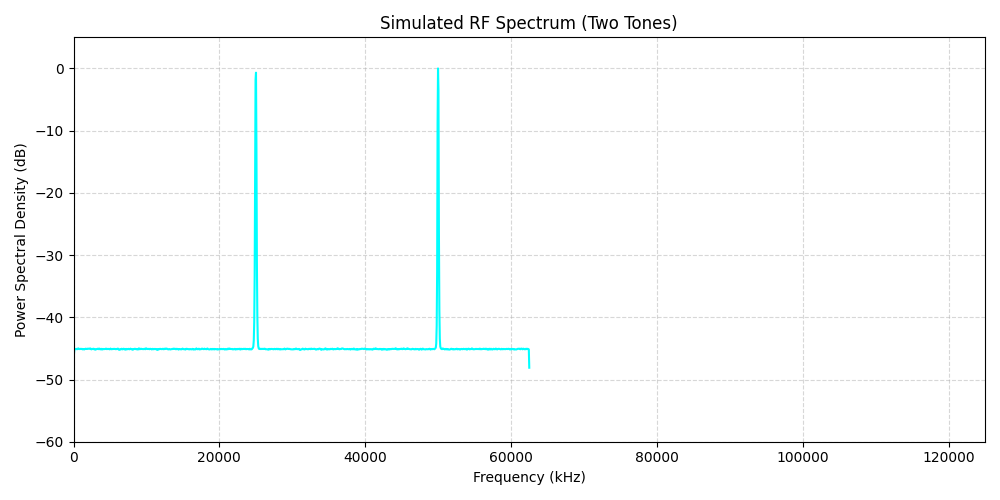
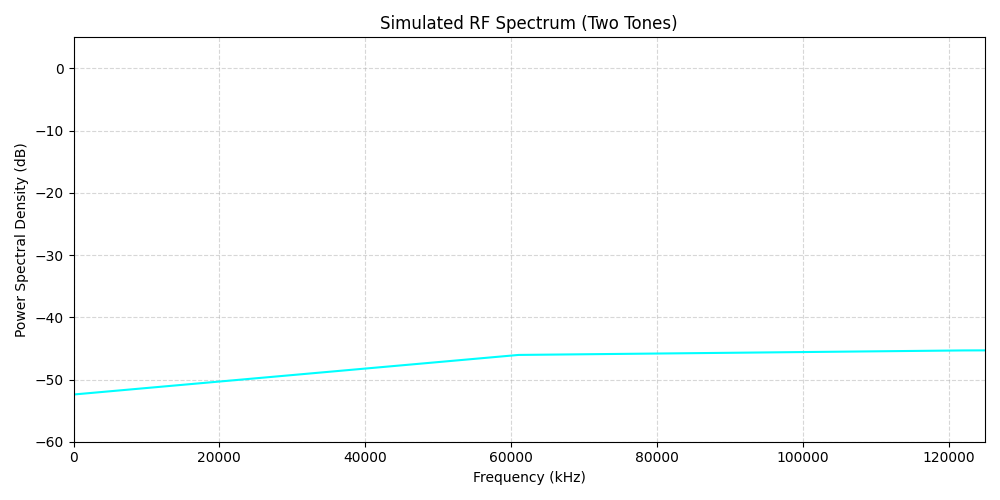
this is a test 2

Changed region(s): [[0.062, 0.15, 0.992, 0.75], [0.124, 0.75, 0.279, 0.78], [0.062, 0.78, 0.124, 0.81]]

diff --git a/rf-spectrum-gen/two-tone.py b/rf-spectrum-gen/two-tone.py
@@ -7,12 +7,12 @@ def generate_rf_spectrum():
     fs = 125e6           # Sample Rate / Bandwidth (in Hz)
     f1 = 25e6            # Frequency of Tone 1 (in Hz)
     f2 = 50e6            # Frequency of Tone 2 (in Hz)
-    duration = 0.1      # Duration of the signal in seconds
+    duration = 0.01      # Duration of the signal in seconds
     noise_power = 0.1    # Add a baseline noise floor
     
     # --- Time Vector & Signal Generation ---
     t = np.arange(0, duration, 1 / fs)
-    
+    print(len(t))
     # Two tones + Gaussian noise
     signal = (np.cos(2 * np.pi * f1 * t) + 
               np.cos(2 * np.pi * f2 * t) + 
@@ -25,7 +25,7 @@ def generate_rf_spectrum():
 
     # --- Plotting ---
     plt.figure(figsize=(10, 5))
-    plt.plot(f / 1e3, psd_db, color='cyan', linewidth=1.5)
+    plt.plot(f , psd_db, color='cyan', linewidth=1.5)
     
     plt.title('Simulated RF Spectrum (Two Tones)')
     plt.xlabel('Frequency (kHz)')